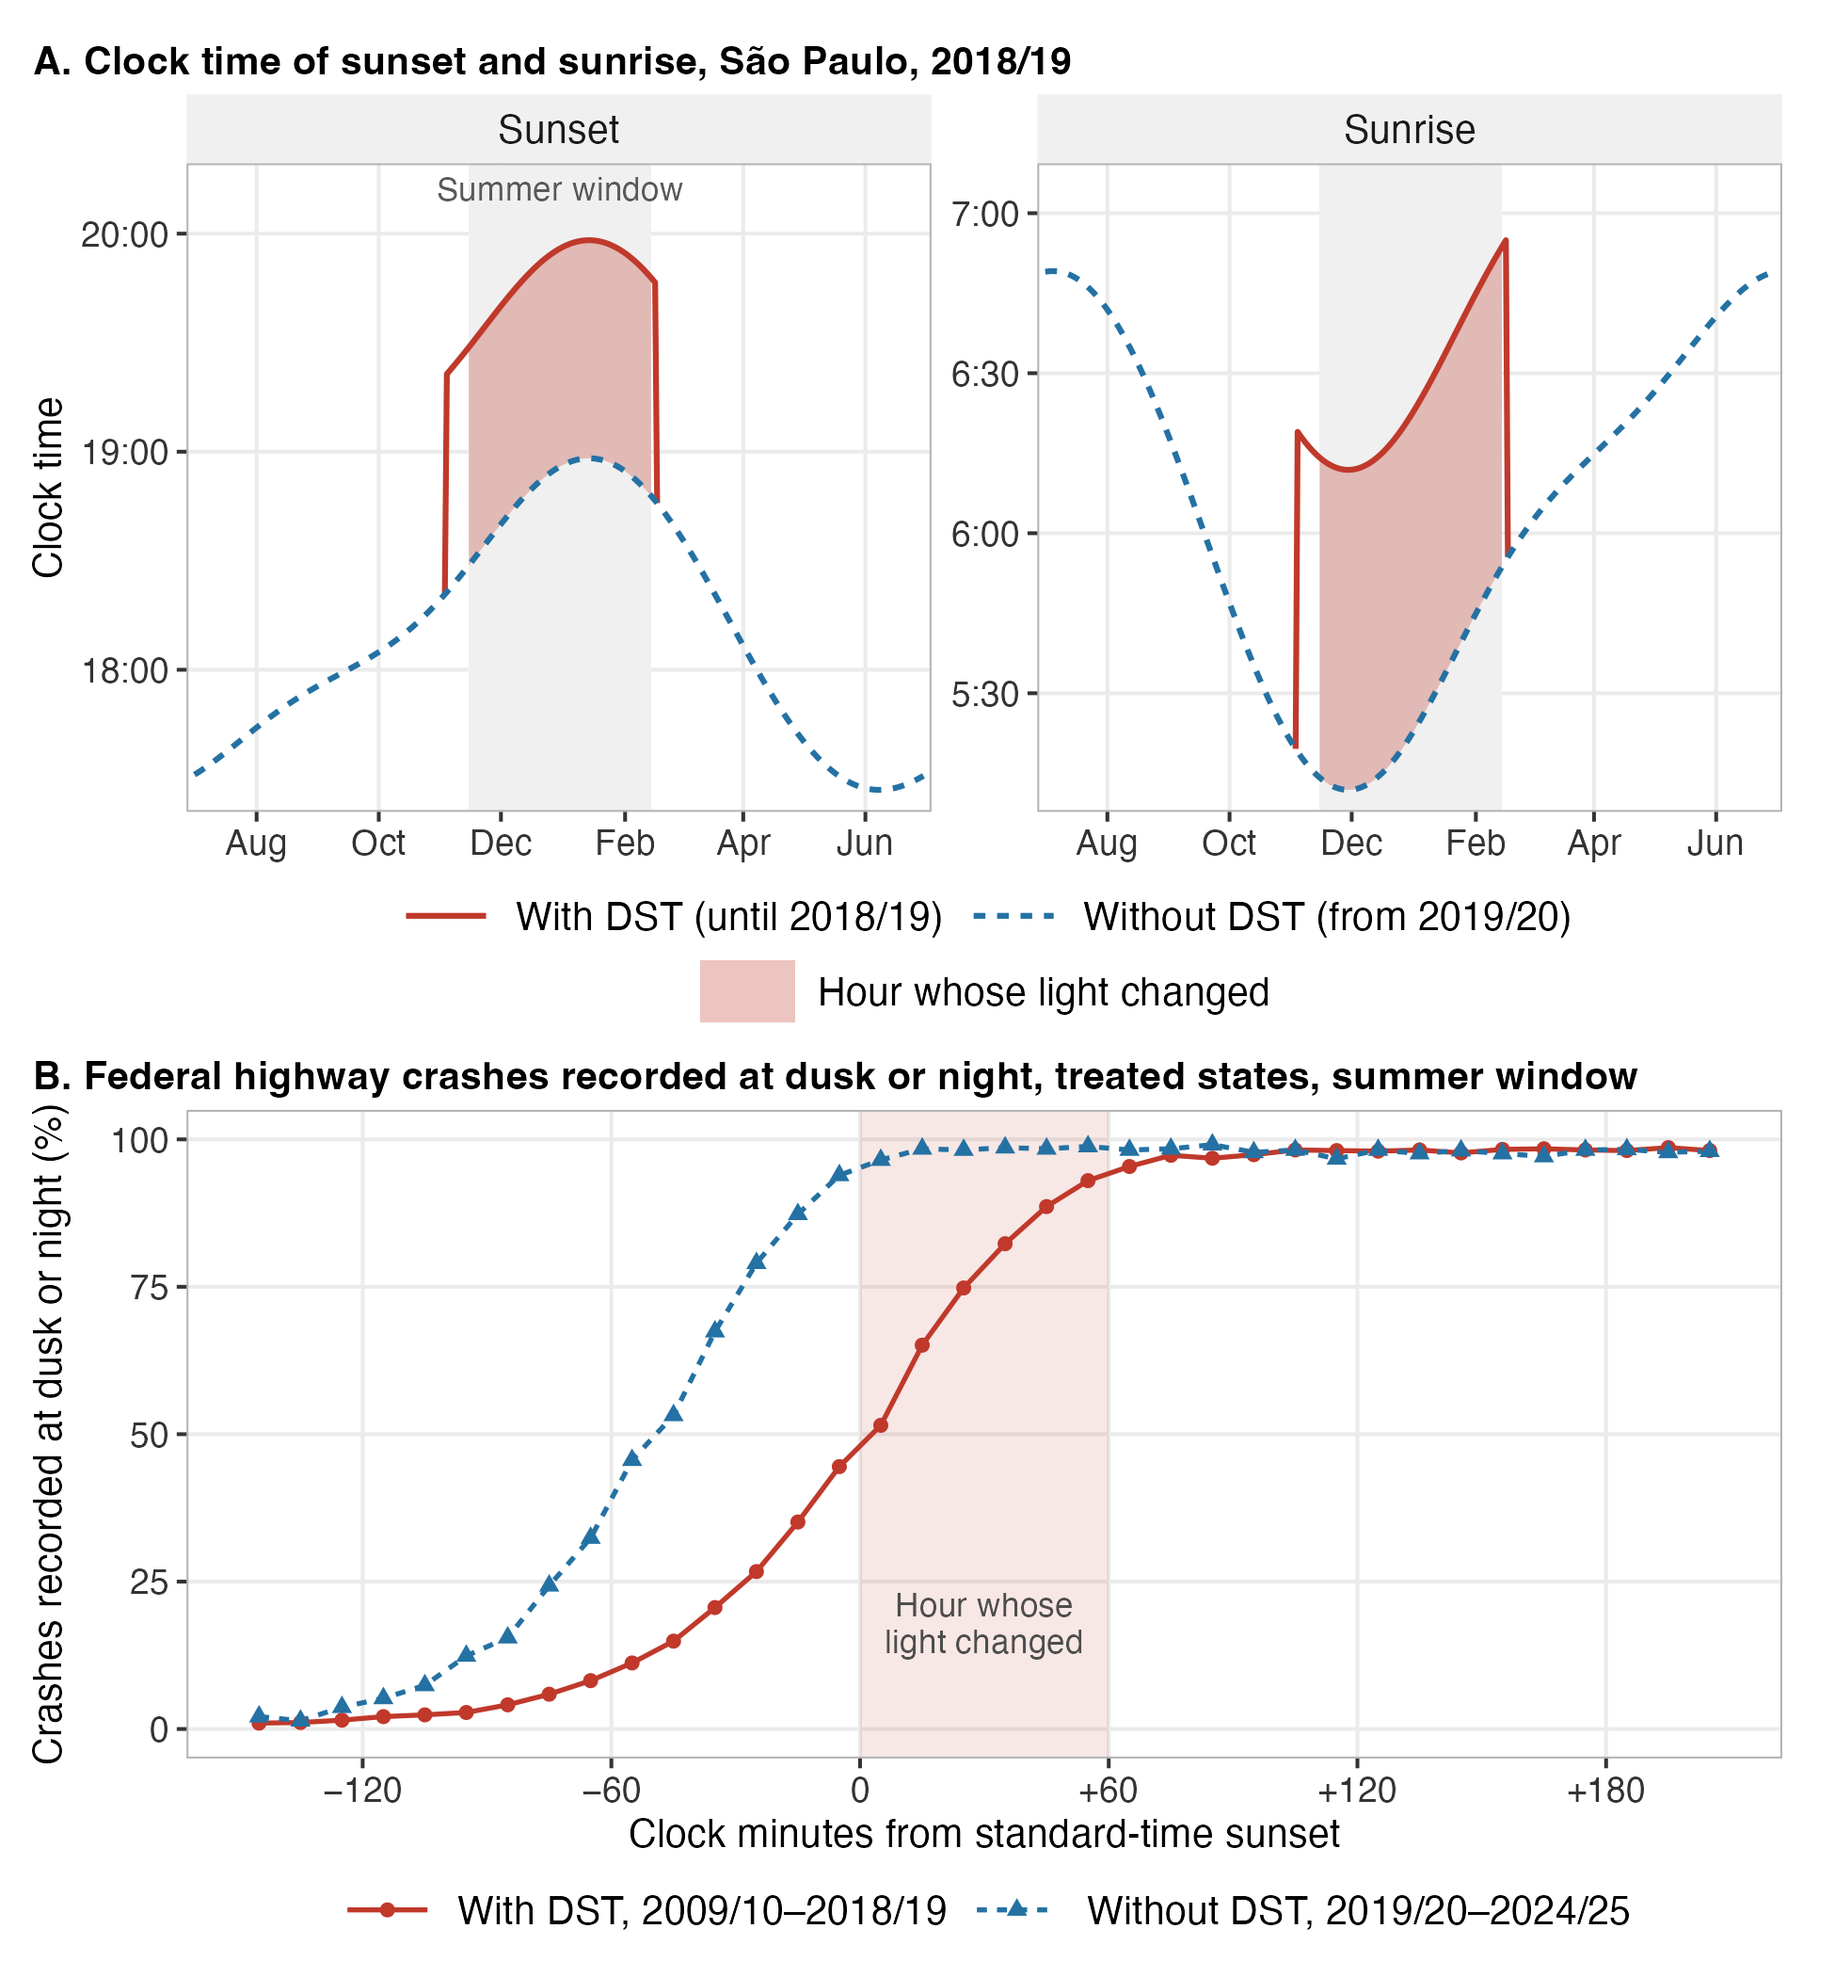
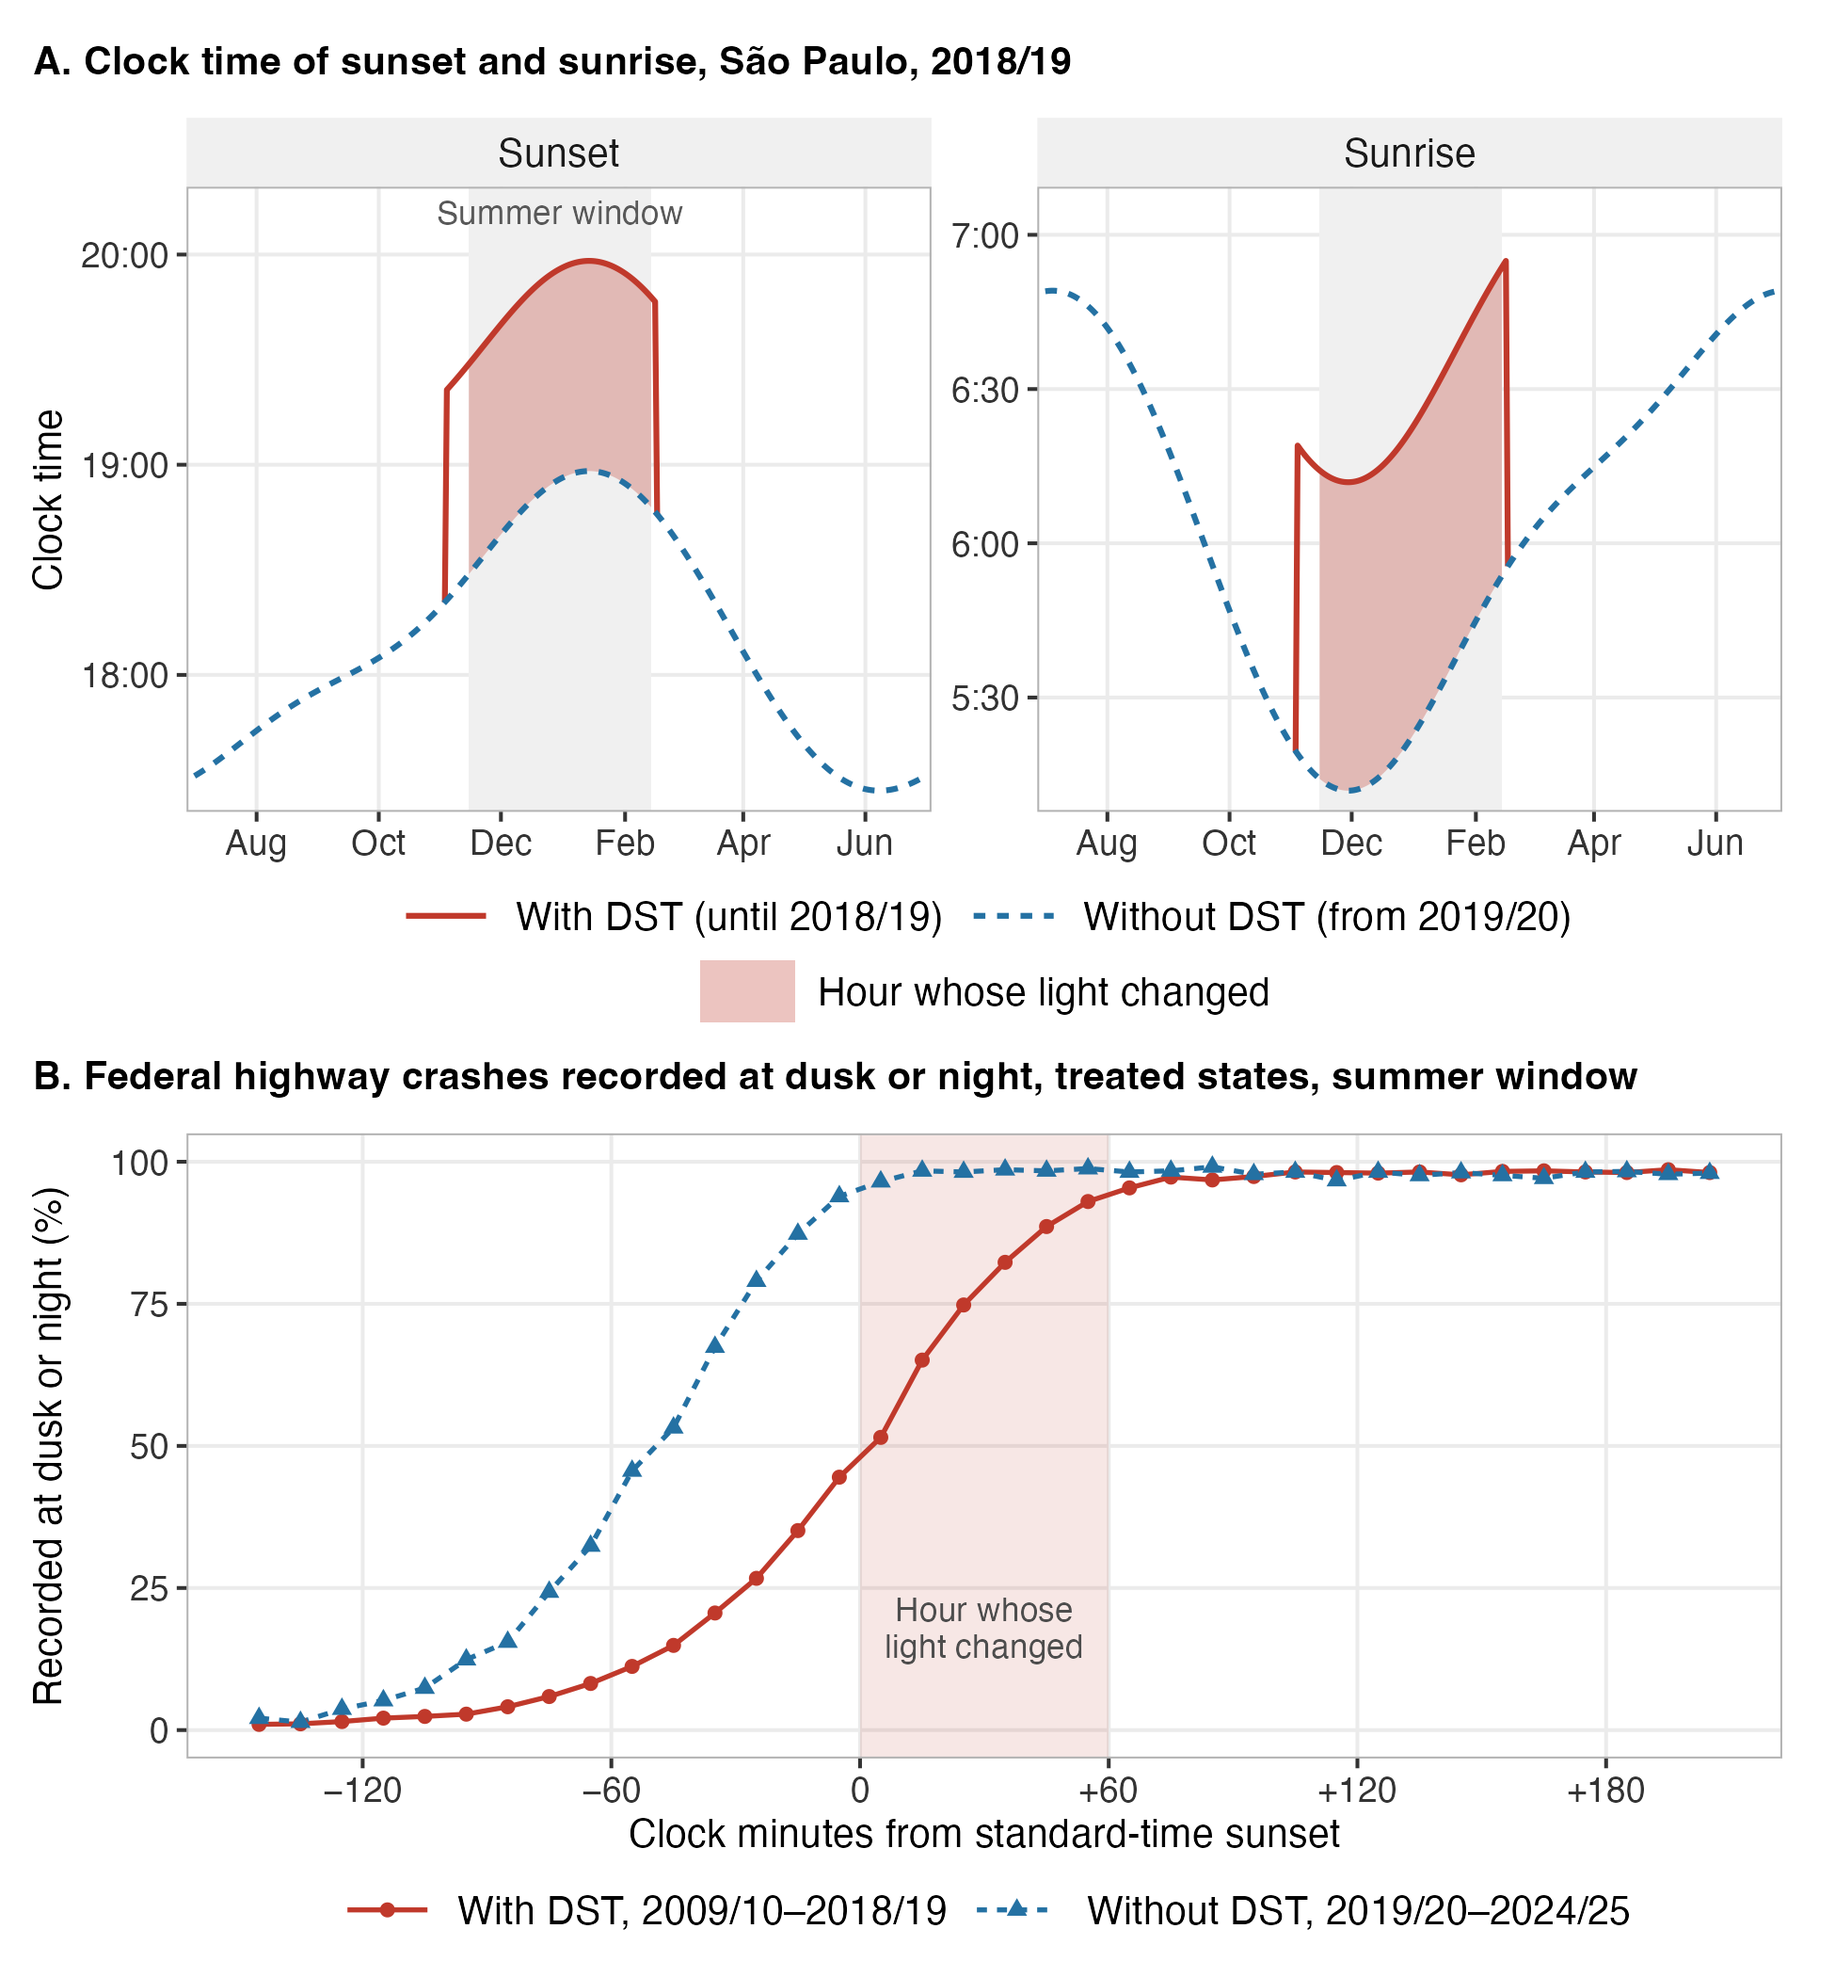
Fix layout defects in the paper, appendix and working paper
- Figure 2: shorten the panel B y-axis label, which ran into the panel
  title, and add space below the panel titles.
- Notes under tables and figures: each note is now its own paragraph
  with 5pt above it. The template's stacked minipages left "Sources"
  1pt from the line above.
- \raggedbottom in the AEA preamble: the AEJ option's \flushbottom
  stretched the space between section and subsection headings on pages
  that end early.
- Appendix: sections carry their letter (A., B., C.) as the text cites
  them, and the references heading no longer prints a stray "*" (the
  template's appendix \section did not accept a star).
- Working paper: no page number on the title page, which duplicated
  page 1.
- Figure B2: more headroom so the season labels clear the panel border.

diff --git a/latex/paper_wp.tex b/latex/paper_wp.tex
@@ -22,8 +22,8 @@
 \hypersetup{colorlinks=true, linkcolor=MidnightBlue, citecolor=MidnightBlue, urlcolor=MidnightBlue}
 
 % The notes environments of the AEA template, so the shared text compiles here.
-\newenvironment{tablenotes}[1][Note]{\par\vspace{3pt}\begin{minipage}{\linewidth}\footnotesize\setstretch{1}\textit{#1:} }{\end{minipage}\par}
-\newenvironment{figurenotes}[1][Note]{\par\vspace{3pt}\begin{minipage}{\linewidth}\footnotesize\setstretch{1}\textit{#1:} }{\end{minipage}\par}
+\newenvironment{tablenotes}[1][Note]{\par\vspace{5pt}\noindent\begin{minipage}{\linewidth}\footnotesize\setstretch{1}\textit{#1:} }{\end{minipage}\par}
+\newenvironment{figurenotes}[1][Note]{\par\vspace{5pt}\noindent\begin{minipage}{\linewidth}\footnotesize\setstretch{1}\textit{#1:} }{\end{minipage}\par}
 
 \renewcommand{\topfraction}{0.9}
 \renewcommand{\bottomfraction}{0.6}
@@ -45,6 +45,7 @@
 \medskip\noindent\textbf{JEL:} I18, R41, O54\\
 \textbf{Keywords:} daylight saving time, ambient light, road deaths, pedestrians, Brazil
 \end{abstract}
+\thispagestyle{empty}
 \end{titlepage}
 
 \input{sections/body}

diff --git a/latex/preamble_aea.tex b/latex/preamble_aea.tex
@@ -55,6 +55,18 @@
     \parbox{\abstractWidth}{\noindent\@abstract\@JELKey\par}}\vskip 24pt\par}
 \makeatother
 
+% The AEJ option sets \flushbottom, which stretches the space around headings
+% on any page that ends early (a float or a heading pushed to the next page).
+\raggedbottom
+
+% Notes under tables and figures. The template's top-aligned minipages stack
+% with only \lineskip between them, so "Sources" touched the line above; each
+% note is its own paragraph here, set off from the previous one.
+\renewenvironment{tablenotes}[1][Note]{\par\addvspace{5pt}\noindent
+  \begin{minipage}{\linewidth}\notesize{\itshape#1: }}{\end{minipage}\par}
+\renewenvironment{figurenotes}[1][Note]{\par\addvspace{5pt}\noindent
+  \begin{minipage}{\linewidth}\notesize{\itshape#1: }}{\end{minipage}\par}
+
 % Floats: relax the placement fractions rather than forcing positions.
 \renewcommand{\topfraction}{0.9}
 \renewcommand{\bottomfraction}{0.6}

diff --git a/latex/appendix.tex b/latex/appendix.tex
@@ -21,6 +21,13 @@ This appendix documents the data and the measurement of the hour whose light cha
 \maketitle
 
 \appendix
+% The template's appendix \section prints no letter, though the text cites
+% "Appendix A", and does not accept a star, so the references heading printed
+% a stray "*". A standard section in the appendix style fixes both.
+\makeatletter
+\renewcommand\section{\@startsection{section}{1}{\z@}{\abovesectionskip}%
+  {\belowsectionskip}{\appendixsectionstyle}}
+\makeatother
 \input{sections/appendix_body}
 
 \bibliographystyle{aea}
